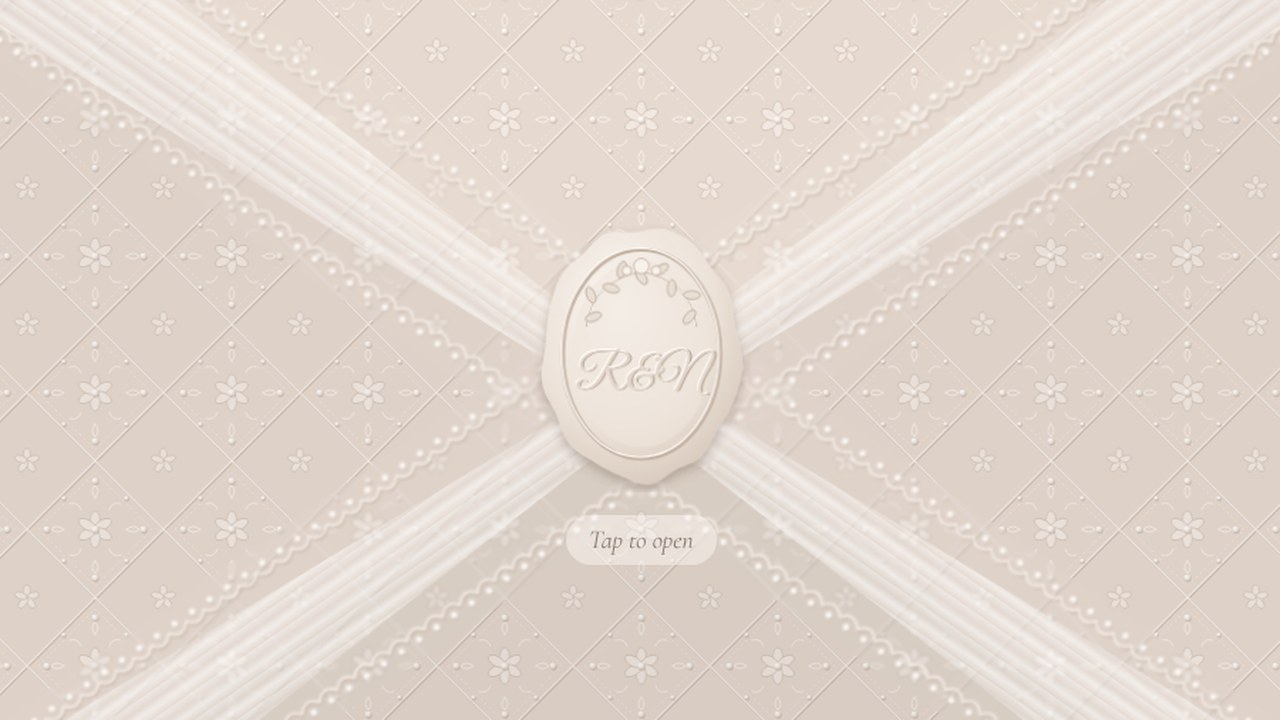
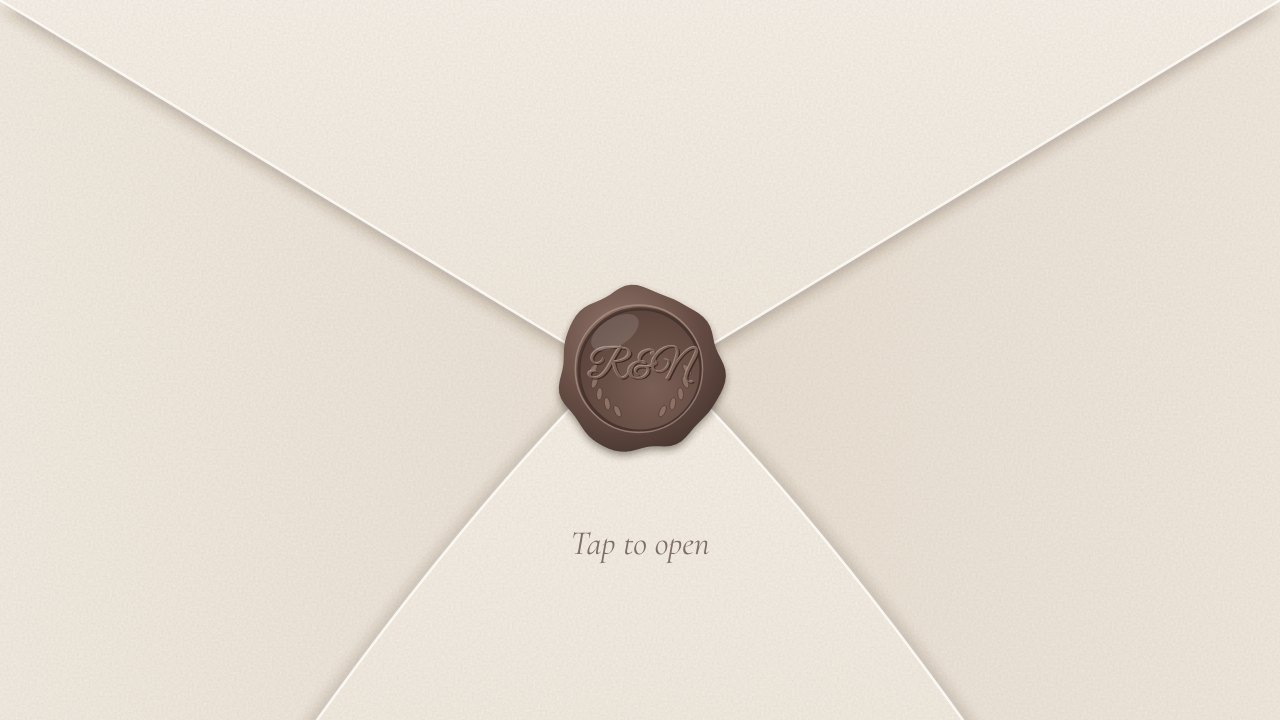
Dentelle: new card image, updated description, centred seal on short screens
- Replaces the Dashboard card image (src/assets/dentelle-cover.jpg) with
  the new sealed envelope and mocha wax seal.
- Card and template descriptions now mention the envelope opening and
  mocha accents instead of burgundy; config primary colour is #6a5047.
- On screens shorter than the first section (e.g. a phone held sideways),
  the envelope's flap and seal are now placed against the visible screen,
  so the seal stays centred instead of falling below the fold.

Claude-Session: https://claude.ai/code/session_01Jko89bRX2AESfgJn1NqBNw

diff --git a/src/components/templates/DentelleTemplate.tsx b/src/components/templates/DentelleTemplate.tsx
@@ -271,13 +271,15 @@ const Envelope = ({
 }) => {
   const ref = useRef<HTMLDivElement | null>(null);
   const uid = useId().replace(/:/g, "");
-  const [size, setSize] = useState({ w: 390, h: 844 });
+  // h: the envelope's full height (the whole first section); vh: the part of it that fits on screen
+  const [size, setSize] = useState({ w: 390, h: 844, vh: 844 });
   const [card, setCard] = useState<{ x: number; y: number; w: number; h: number } | null>(null);
   useEffect(() => {
     const el = ref.current;
     if (!el) return;
     const update = () => {
-      setSize({ w: el.clientWidth || 390, h: el.clientHeight || 844 });
+      const h = el.clientHeight || 844;
+      setSize({ w: el.clientWidth || 390, h, vh: Math.min(h, window.innerHeight || h) });
       const c = cardRef.current;
       if (c) {
         const o = el.getBoundingClientRect();
@@ -289,7 +291,11 @@ const Envelope = ({
     const ro = new ResizeObserver(update);
     ro.observe(el);
     if (cardRef.current) ro.observe(cardRef.current);
-    return () => ro.disconnect();
+    window.addEventListener("resize", update);
+    return () => {
+      ro.disconnect();
+      window.removeEventListener("resize", update);
+    };
   }, [cardRef]);
 
   const reducedMotion = prefersReducedMotion();
@@ -302,13 +308,14 @@ const Envelope = ({
     return () => timers.forEach(clearTimeout);
   }, [opening, reducedMotion]);
 
-  // Geometry, in px. The envelope is the whole screen.
-  const { w, h } = size;
-  const flapH = Math.round(h * 0.54);
-  const meetY = h * 0.5;
-  const bottomTop = h * 0.47;
-  const seal = Math.round(Math.min(Math.max(Math.min(w, h) * 0.26, 84), 132));
-  const tipR = Math.max(12, Math.min(w, h) * 0.035);
+  // Geometry, in px. The envelope covers the whole first section; the flap and seal are
+  // placed against the visible screen so the seal stays centred when the section is taller.
+  const { w, h, vh } = size;
+  const flapH = Math.round(vh * 0.54);
+  const meetY = vh * 0.5;
+  const bottomTop = vh * 0.47;
+  const seal = Math.round(Math.min(Math.max(Math.min(w, vh) * 0.26, 84), 132));
+  const tipR = Math.max(12, Math.min(w, vh) * 0.035);
   const sideLen = Math.hypot(w / 2, flapH);
   const ux = w / 2 / sideLen;
   const uy = flapH / sideLen;
@@ -316,7 +323,8 @@ const Envelope = ({
   const tipRt = `${(w / 2 + ux * tipR).toFixed(1)} ${(flapH - uy * tipR).toFixed(1)}`;
   const flapPath = `M0 0 H${w} L${tipRt} Q${w / 2} ${flapH} ${tipL} Z`;
   const flapEdge = `M0 0 L${tipL} Q${w / 2} ${flapH} ${tipRt} L${w} 0`;
-  const bottomEdge = `M0 ${h} Q${w * 0.27} ${h * 0.64} ${w / 2} ${bottomTop} Q${w * 0.73} ${h * 0.64} ${w} ${h}`;
+  const bottomCtrlY = bottomTop + (h - bottomTop) * 0.32;
+  const bottomEdge = `M0 ${h} Q${w * 0.27} ${bottomCtrlY} ${w / 2} ${bottomTop} Q${w * 0.73} ${bottomCtrlY} ${w} ${h}`;
   const bottomPath = `${bottomEdge} Z`;
   // Inside of the envelope: plain paper, a shade deeper than the outside.
   const inside: React.CSSProperties = { backgroundColor: "#ece4d9", backgroundImage: grain(0.3), backgroundSize: "180px 180px" };

diff --git a/src/config/templates.ts b/src/config/templates.ts
@@ -614,7 +614,7 @@ export const templates: Template[] = [
     id: 'dentelle-lace',
     name: 'Dentelle',
     category: 'romantic',
-    description: 'Romantic ivory lace with a burgundy wax-seal opening, lace-edged burgundy bands and a timeline of the day.',
+    description: 'Romantic ivory lace that opens from a wax-sealed envelope, with lace-edged mocha bands and a timeline of the day.',
     thumbnail: '/placeholder.svg',
     isPremium: true,
     isPopular: true,
@@ -635,7 +635,7 @@ export const templates: Template[] = [
       fontSecondary: 'Cormorant Garamond',
       headingSize: 'xl',
       colorScheme: {
-        primary: '#5a1824',
+        primary: '#6a5047',
         secondary: '#b79c78',
         accent: '#f3ebe4',
         background: '#faf6f1',

diff --git a/src/pages/Dashboard.tsx b/src/pages/Dashboard.tsx
@@ -203,7 +203,7 @@ const Dashboard = () => {
       id: "dentelle-lace",
       name: "Dentelle",
       price: 100,
-      description: "Romantic lace with a wax-seal opening and burgundy accents",
+      description: "Romantic lace with a wax-sealed envelope opening and mocha accents",
       image: dentelleCover,
       features: [
         { icon: Sparkles, text: "Wax Seal Opening" },
